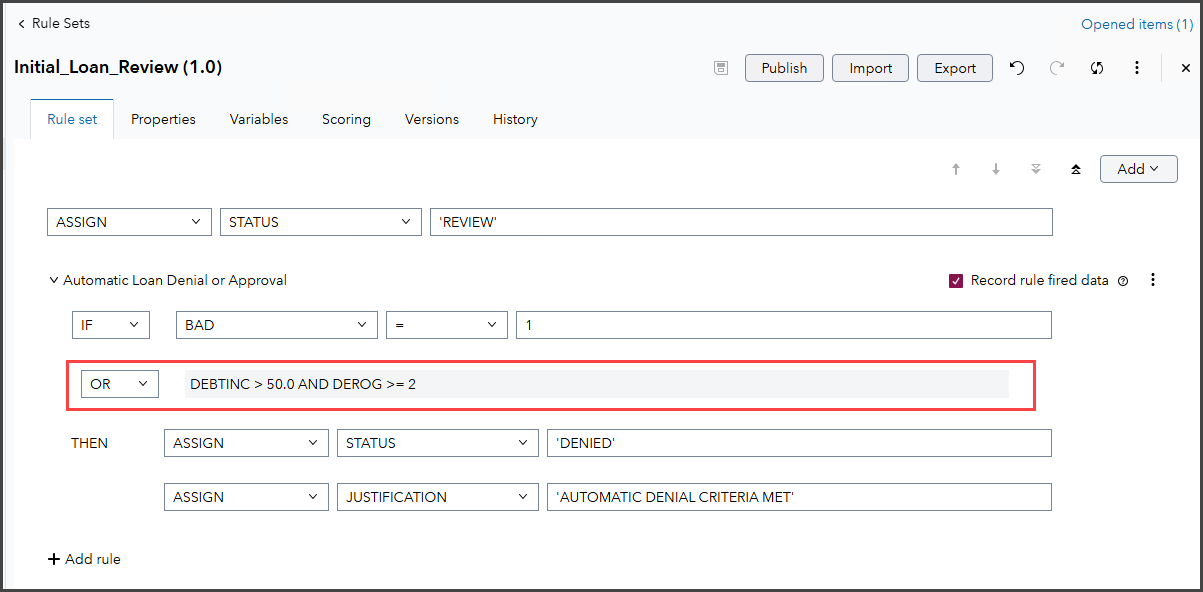
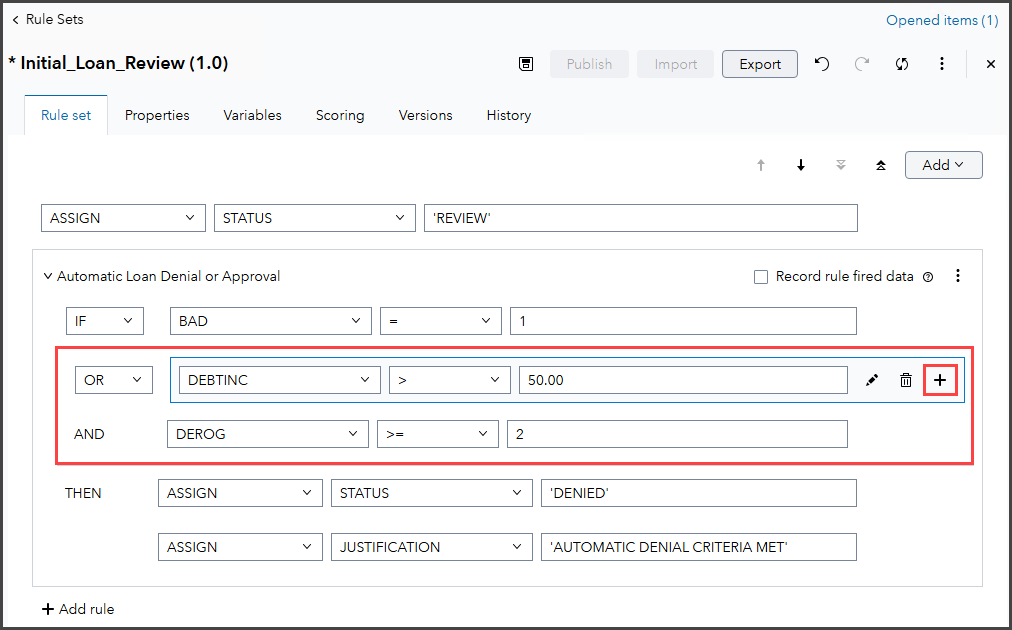
updated instructions

diff --git a/Getting_Started_with_SAS_Intelligent_Decisioning.md b/Getting_Started_with_SAS_Intelligent_Decisioning.md
@@ -54,7 +54,7 @@ Select **No** when prompted about accepting *Admin* privileges.
     * Description: **Initial Loan Review Assignment Rule**
     * Location: **/Public/SID Workshop**
 
-        > &#9755; Select ![Folder icon](img/FolderIcon.png) to navigate to *SAS Content/Public*, then select ![New](img/New.png) **&#10132; Folder** to create a new folder named *SID Workshop*.
+        > &#9755; Select ![Folder icon](img/FolderIcon.png) to navigate to *SAS Content/Public*, then select ![New](img/New.png) **&#10132; Folder** to create a new folder named *SID Workshop* if the workshop folder does not already exist.
 
         ![Initial_Loan_Review settings](img/Initial_Loan_ReviewSettings.png)
 
@@ -121,7 +121,7 @@ Select **No** when prompted about accepting *Admin* privileges.
 
 1. Name the rule **Automatic Loan Denial or Approval**.
 
-   > &#9755; Select ![More options](img/MoreOptions.png) **&#10132; edit rule information**.
+   > &#9755; Select ![More options](img/MoreOptions.png) **&#10132; Edit rule information**.
 
 1. Select the following for the rule:<br>
    **IF BAD = 1**<br>
@@ -135,31 +135,15 @@ Select **No** when prompted about accepting *Admin* privileges.
 1. Click ![Save button](img/SaveButton.png) to save the rule set.
 1. Click **+ Add Rule** to add a new rule block.
 1. Use the drop-down menu to change the **IF** to an **OR** to add an *OR* condition to the existing rule block.
-1. Select ![Pencil icon](img/PencilIcon.png) to edit the added statement in the complex rule editor.
-1. In the *Expression Editor*, click **Clear** to clear the current expression.
+1. Select the following for the *OR* condition:<br>
+   **OR DEBTINC > 50.0** <br>
+   **AND DEROG >= 2**
 
-   ![Clear Syntax](img/ClearSyntax.png)
+     > &#9755; Hover over the *OR* statement to surface statement options, then click ![Add/Plus](img/AddPlus.png) to add the *AND* statement.
 
-1. In the *Variables* tab, double-click **DEBTINC** to add it to the expression.
-1. In the *Operators* section, click **>** to add it the expression.
-1. In the expression section, type **50.0**.
-1. In the *Operators* section, click **AND** to add it the expression.
-1. In the *Variables* tab, double-click **DEROG** to add it to the expression.
-1. In the *Operators* section, click **>**, then **=** to add both operators to the expression.
-
-    > &#9755; Delete the space between the operators before proceeding.
-
-1. In the expression section, type **2**.
-1. Click **Verify syntax** to validate the expression logic.
-
-   ![Expression editor](img/ExpressionEditor.png)
-
-1. Click **Save** to save the expression code and close the *Expression Editor*.
-1. Click ![Save button](img/SaveButton.png) to save the rule set.
 
    ![Initial loan review - add offer rate](img/InitialLoanReview3.png)
 
-1. Click ![Save button](img/SaveButton.png) to save the rule set.
 1. Click **+ Add Rule** to add a new rule block.
 1. Change the **IF** to an **ELSE** to add an *ELSE IF* condition to the existing rule block.
 1. Select the following for the *ELSE* condition: <br>
@@ -167,20 +151,21 @@ Select **No** when prompted about accepting *Admin* privileges.
    **AND LOAN <= 15000** <br>
    **AND DEBTINC < 10.0** <br>
    **THEN ASSIGN STATUS 'APPROVED'** <br>
-    **&nbsp; &nbsp; &nbsp; &nbsp; &nbsp; &nbsp;ASSIGN JUSTIFICATION 'AUTOMATIC APPROVAL CRITERIA MET'**
-    **&nbsp; &nbsp; &nbsp; &nbsp; &nbsp; &nbsp;ASSIGN OFFER_RATE 2.75**
+   **&nbsp; &nbsp; &nbsp; &nbsp; &nbsp; &nbsp;ASSIGN JUSTIFICATION 'AUTOMATIC APPROVAL CRITERIA MET'** <br>
+   **&nbsp; &nbsp; &nbsp; &nbsp; &nbsp; &nbsp;ASSIGN OFFER_RATE 2.75**
 
    > &#9755; Click ![Add/Plus](img/AddPlus.png) to add the *AND* statements and additional *ASSIGN* statements.
 
    ![Initial loan review - automatic approval](img/InitialLoanReview4.png)
 
+1. Click ![Save button](img/SaveButton.png) to save the rule set.
 1. To test the rule set, select the **Scoring** tab.
 1. On the **Tests** sub-tab, click **New Test**.
 1. Enter the following information:
    * Name: **Initial_Loan_Review_Test**
    * Description: **Test 1**
    * Location: **/Public/SID Workshop/Tests**
-      > &#9755; Select ![Folder icon](img/FolderIcon.png) to navigate to *SAS Content/SID Workshop*, then select ![New](img/New.png) **&#10132; Folder** to create a new folder named *Tests*.
+      > &#9755; Select ![Folder icon](img/FolderIcon.png) to navigate to *SAS Content/SID Workshop*, then select ![New](img/New.png) **&#10132; Folder** to create a new folder named *Tests* if the test folder does not exist already.
    * Input table: **LOAN_APPLICANTS**.
 
    ![Test rule set](img/TestRuleSet.png)
@@ -192,7 +177,7 @@ Select **No** when prompted about accepting *Admin* privileges.
 1. Click **OK** to close the *Variable Mappings* dialog.
 1. Click **Save** to save this test to the rule set.
 
-     > &#9998; If do not select **Save** and simply select **Run**, then the test is run; however, the test is not saved to the rule set and if your session is closed you will need to setup the test again to run it in the future.
+     > &#9998; If you do not select **Save** and simply select **Run**, then the test is run; however, the test is not saved to the rule set and if your session is closed, you will need to set up the test again to run it in the future.
 
 1. Check the newly created test and click **Run** to run the specified test.
 
@@ -264,9 +249,7 @@ Select **No** when prompted about accepting *Admin* privileges.
 
      ![DS2 Code Variables](img/DS2CodeVars.png)
 
-1. Click **x** to close the DS2 Code file.
-
-1. To test the rule set, select the **Scoring** tab.
+1. To test the code file, select the **Scoring** tab.
 1. On the **Tests** sub-tab, click **New Test**.
 1. Enter the following information:
    * Name: **Additional_Review_Test**
@@ -289,7 +272,7 @@ Select **No** when prompted about accepting *Admin* privileges.
    ![Fix variable mappings](img/FixVarMaps.png)
 
 1. Click **OK** to close the *Variable Mappings* dialog.
-1. Click **Save** to save this test to the rule set.
+1. Click **Save** to save this test to the code file.
 1. Check the newly created test and click **Run** to run the specified test.
 
      ![Select test](img/SelectTest.png)
@@ -301,7 +284,7 @@ Select **No** when prompted about accepting *Admin* privileges.
 
    ![DS2 test output](img/DS2TestOutput.png)
 
-1. Click **x** to close the test results and the rule set.
+1. Click **x** to close the test results and the code file.
 
 ## Create and Test a Decision
 
@@ -336,7 +319,7 @@ Select **No** when prompted about accepting *Admin* privileges.
 
 1. Click **Add** to add all the missing variables to the decision.
 1. Click ![Save button](img/SaveButton.png) to save the decision.
-1. Select the **Variables** tab.
+1. Select the **Variables** tab to review the added variables.
 
      ![Decision variables](img/DecisionVars.png)
 
@@ -352,7 +335,7 @@ Select **No** when prompted about accepting *Admin* privileges.
 1. Click **OK** to create the branch.
 1. In the *Properties* section, select the **STATUS** variable for the *Branch expression*.
 
-     > &#9755; Select **More...** to view the full listing of variables in the *Branch expression* drop-down and click **OK**.
+     > &#9755; Select the drop-down menu under *Branch expression* to view the full list of variables.
 
 1. Click ![Add/Plus](img/AddPlus.png) to add the following *paths*:
    * **"REVIEW"**
